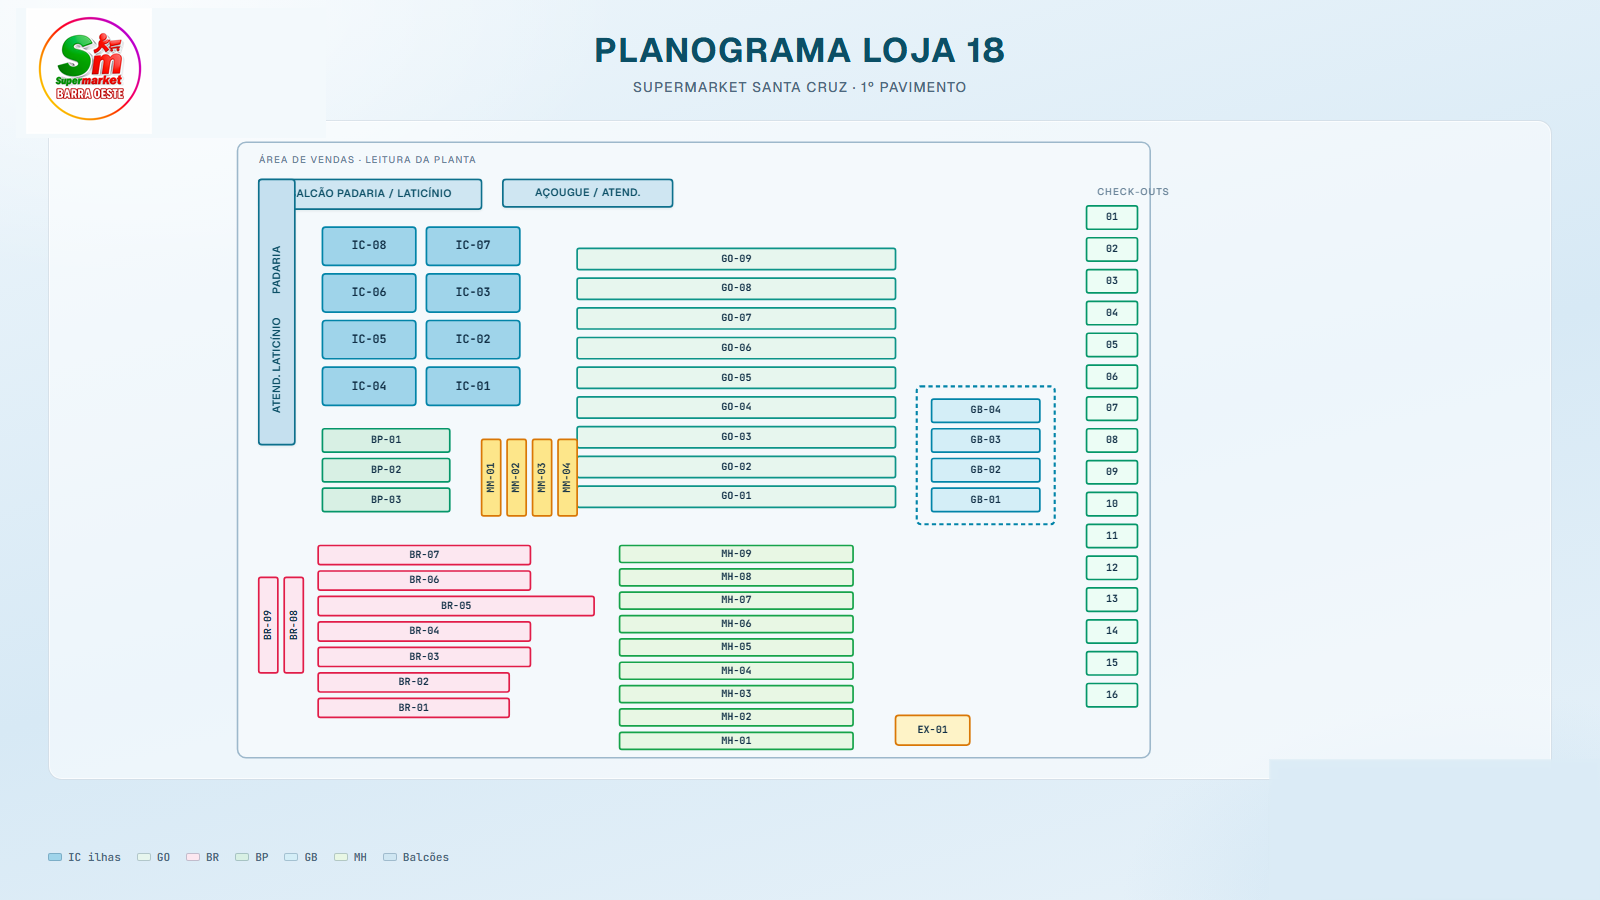
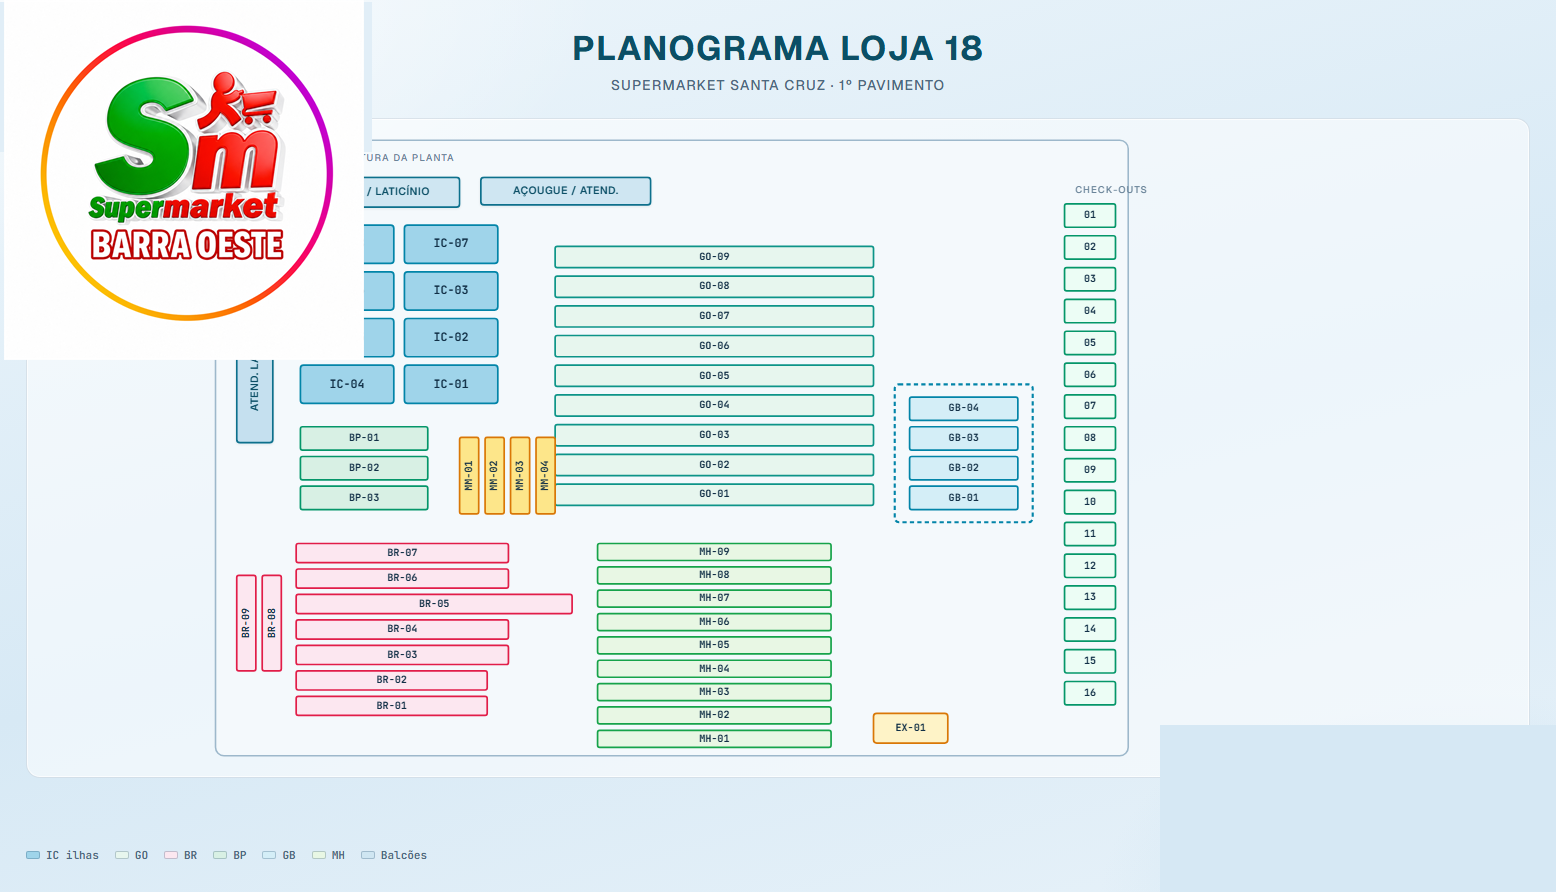
cod: alteração capa

diff --git a/planograma/entrada.html b/planograma/entrada.html
@@ -12,7 +12,7 @@
       --ink: #123047;
       --ink-soft: #4d6880;
       --outline: rgba(18, 60, 95, 0.14);
-      --dock-h: clamp(88px, 14vh, 120px);
+      --dock-h: clamp(84px, 13vh, 112px);
     }
 
     * { box-sizing: border-box; }
@@ -42,7 +42,7 @@
       width: 100%;
       height: 100%;
       overflow: hidden;
-      background: #dceaf4;
+      background: #d5e8f4;
       animation: rise 0.75s ease both;
     }
 
@@ -50,54 +50,43 @@
       display: block;
       width: 100%;
       height: 100%;
-      object-fit: contain;
+      object-fit: cover;
       object-position: center center;
     }
 
-    /* Destaque: logo AB + participação */
     .credit {
       position: absolute;
-      right: clamp(12px, 2vw, 28px);
-      bottom: clamp(12px, 2vw, 24px);
+      right: clamp(14px, 2.2vw, 32px);
+      bottom: clamp(14px, 2.2vw, 28px);
       z-index: 3;
-      width: min(34%, 240px);
+      width: min(36%, 260px);
       text-align: center;
-      padding: 14px 16px 12px;
-      background: rgba(255, 255, 255, 0.94);
-      border: 1px solid rgba(11, 111, 140, 0.22);
+      padding: 16px 18px 14px;
+      background: rgba(255, 255, 255, 0.96);
+      border: 1px solid rgba(11, 111, 140, 0.28);
       border-radius: 12px;
       backdrop-filter: blur(10px);
       box-shadow:
-        0 10px 28px rgba(18, 48, 71, 0.14),
-        0 0 0 1px rgba(255, 255, 255, 0.8) inset;
+        0 12px 30px rgba(18, 48, 71, 0.16),
+        0 0 0 1px rgba(255, 255, 255, 0.85) inset;
       animation: rise 0.85s 0.12s ease both;
-    }
-
-    .credit .logo-abb {
-      display: block;
-      height: clamp(52px, 6.5vw, 72px);
-      width: auto;
-      margin: 0 auto 10px;
-      filter: drop-shadow(0 2px 6px rgba(18, 48, 71, 0.12));
     }
 
     .credit .participacao {
       margin: 0;
-      padding-top: 10px;
-      border-top: 2px solid rgba(2, 132, 168, 0.28);
-      font-size: clamp(12px, 1.25vw, 14px);
+      font-size: clamp(14px, 1.45vw, 17px);
       line-height: 1.4;
       color: var(--ink);
-      font-weight: 500;
+      font-weight: 600;
     }
 
     .credit .participacao strong {
       display: block;
-      margin-bottom: 4px;
+      margin-bottom: 6px;
       color: #0b6f8c;
       font-weight: 700;
-      font-size: clamp(11px, 1.1vw, 12px);
-      letter-spacing: 0.08em;
+      font-size: clamp(12px, 1.2vw, 13px);
+      letter-spacing: 0.1em;
       text-transform: uppercase;
     }
 
@@ -164,13 +153,13 @@
         overflow: hidden;
       }
 
-      .credit {
-        width: min(58%, 200px);
-        padding: 10px 12px;
+      .capa-frame > img.capa {
+        object-fit: contain;
       }
 
-      .credit .logo-abb {
-        height: clamp(40px, 10vw, 56px);
+      .credit {
+        width: min(62%, 220px);
+        padding: 12px 14px;
       }
 
       .dock {
@@ -193,7 +182,6 @@
       />
 
       <aside class="credit">
-        <img class="logo-abb" src="assets/logo-abb.jpeg" alt="Adilson Baptista — inteligência de negócio" />
         <p class="participacao">
           <strong>Participação</strong>
           Tatiana Batista e Jefferson Portilho

diff --git a/planograma/index.html b/planograma/index.html
@@ -12,7 +12,7 @@
       --ink: #123047;
       --ink-soft: #4d6880;
       --outline: rgba(18, 60, 95, 0.14);
-      --dock-h: clamp(88px, 14vh, 120px);
+      --dock-h: clamp(84px, 13vh, 112px);
     }
 
     * { box-sizing: border-box; }
@@ -42,7 +42,7 @@
       width: 100%;
       height: 100%;
       overflow: hidden;
-      background: #dceaf4;
+      background: #d5e8f4;
       animation: rise 0.75s ease both;
     }
 
@@ -50,54 +50,43 @@
       display: block;
       width: 100%;
       height: 100%;
-      object-fit: contain;
+      object-fit: cover;
       object-position: center center;
     }
 
-    /* Destaque: logo AB + participação */
     .credit {
       position: absolute;
-      right: clamp(12px, 2vw, 28px);
-      bottom: clamp(12px, 2vw, 24px);
+      right: clamp(14px, 2.2vw, 32px);
+      bottom: clamp(14px, 2.2vw, 28px);
       z-index: 3;
-      width: min(34%, 240px);
+      width: min(36%, 260px);
       text-align: center;
-      padding: 14px 16px 12px;
-      background: rgba(255, 255, 255, 0.94);
-      border: 1px solid rgba(11, 111, 140, 0.22);
+      padding: 16px 18px 14px;
+      background: rgba(255, 255, 255, 0.96);
+      border: 1px solid rgba(11, 111, 140, 0.28);
       border-radius: 12px;
       backdrop-filter: blur(10px);
       box-shadow:
-        0 10px 28px rgba(18, 48, 71, 0.14),
-        0 0 0 1px rgba(255, 255, 255, 0.8) inset;
+        0 12px 30px rgba(18, 48, 71, 0.16),
+        0 0 0 1px rgba(255, 255, 255, 0.85) inset;
       animation: rise 0.85s 0.12s ease both;
-    }
-
-    .credit .logo-abb {
-      display: block;
-      height: clamp(52px, 6.5vw, 72px);
-      width: auto;
-      margin: 0 auto 10px;
-      filter: drop-shadow(0 2px 6px rgba(18, 48, 71, 0.12));
     }
 
     .credit .participacao {
       margin: 0;
-      padding-top: 10px;
-      border-top: 2px solid rgba(2, 132, 168, 0.28);
-      font-size: clamp(12px, 1.25vw, 14px);
+      font-size: clamp(14px, 1.45vw, 17px);
       line-height: 1.4;
       color: var(--ink);
-      font-weight: 500;
+      font-weight: 600;
     }
 
     .credit .participacao strong {
       display: block;
-      margin-bottom: 4px;
+      margin-bottom: 6px;
       color: #0b6f8c;
       font-weight: 700;
-      font-size: clamp(11px, 1.1vw, 12px);
-      letter-spacing: 0.08em;
+      font-size: clamp(12px, 1.2vw, 13px);
+      letter-spacing: 0.1em;
       text-transform: uppercase;
     }
 
@@ -164,13 +153,13 @@
         overflow: hidden;
       }
 
-      .credit {
-        width: min(58%, 200px);
-        padding: 10px 12px;
+      .capa-frame > img.capa {
+        object-fit: contain;
       }
 
-      .credit .logo-abb {
-        height: clamp(40px, 10vw, 56px);
+      .credit {
+        width: min(62%, 220px);
+        padding: 12px 14px;
       }
 
       .dock {
@@ -193,7 +182,6 @@
       />
 
       <aside class="credit">
-        <img class="logo-abb" src="assets/logo-abb.jpeg" alt="Adilson Baptista — inteligência de negócio" />
         <p class="participacao">
           <strong>Participação</strong>
           Tatiana Batista e Jefferson Portilho
